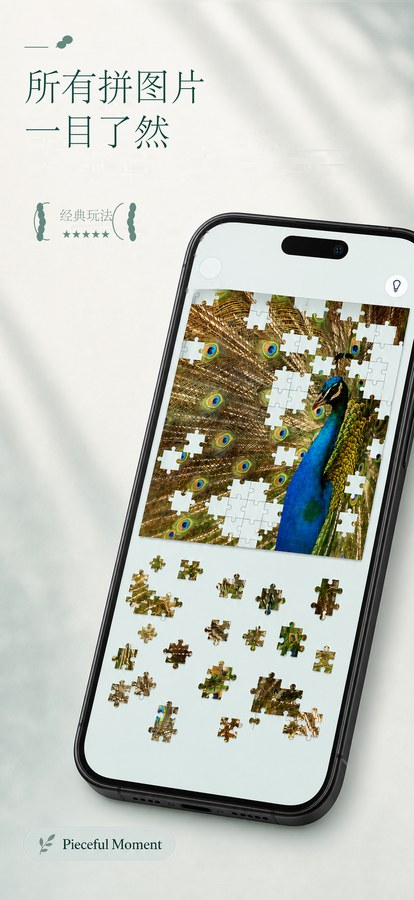
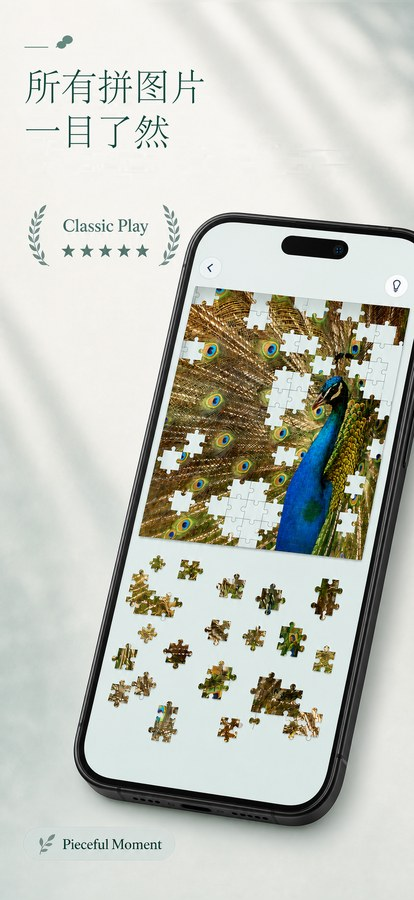
Preserve Classic Play badge in localized images

diff --git a/index.html b/index.html
@@ -119,10 +119,10 @@
   </div>
   <div class="rail reveal d1">
     <div class="spacer"></div>
-    <div class="shot"><img data-localized-shot="01" src="assets/img/shots/v8/en/01.jpg?v=2" alt="Every piece in view"></div>
-    <div class="shot"><img data-localized-shot="02" src="assets/img/shots/v8/en/02.jpg?v=2" alt="Build outside the board"></div>
-    <div class="shot"><img data-localized-shot="03" src="assets/img/shots/v8/en/03.jpg?v=2" alt="Move pieces together"></div>
-    <div class="shot"><img data-localized-shot="04" src="assets/img/shots/v8/en/04.jpg?v=2" alt="A finish worth sharing"></div>
+    <div class="shot"><img data-localized-shot="01" src="assets/img/shots/v8/en/01.jpg?v=3" alt="Every piece in view"></div>
+    <div class="shot"><img data-localized-shot="02" src="assets/img/shots/v8/en/02.jpg?v=3" alt="Build outside the board"></div>
+    <div class="shot"><img data-localized-shot="03" src="assets/img/shots/v8/en/03.jpg?v=3" alt="Move pieces together"></div>
+    <div class="shot"><img data-localized-shot="04" src="assets/img/shots/v8/en/04.jpg?v=3" alt="A finish worth sharing"></div>
     <div class="shot"><img data-localized-shot="05" src="assets/img/shots/v8/en/05.jpg?v=1" alt="A picture for every mood"></div>
     <div class="shot"><img data-localized-shot="06" src="assets/img/shots/v8/en/06.jpg?v=1" alt="Made for little pauses"></div>
     <div class="shot"><img data-localized-shot="07" src="assets/img/shots/v8/en/07.jpg?v=1" alt="Turn your photos into puzzles"></div>
@@ -211,6 +211,6 @@
   </div>
 </footer>
 
-<script src="assets/app.js?v=9"></script>
+<script src="assets/app.js?v=10"></script>
 </body>
 </html>

diff --git a/assets/app.js b/assets/app.js
@@ -93,7 +93,7 @@
       b.classList.toggle("on", b.dataset.lang === lang);
     });
     document.querySelectorAll("[data-localized-shot]").forEach(function (img) {
-      img.src = "assets/img/shots/v8/" + lang + "/" + img.dataset.localizedShot + ".jpg?v=2";
+      img.src = "assets/img/shots/v8/" + lang + "/" + img.dataset.localizedShot + ".jpg?v=3";
     });
     document.querySelectorAll("[data-localized-ipad-shot]").forEach(function (img) {
       img.src = "assets/img/shots/v113-ipad/" + lang + "/" + img.dataset.localizedIpadShot + ".jpg?v=1";

diff --git a/scripts/render_v113_store_assets.py b/scripts/render_v113_store_assets.py
@@ -253,7 +253,7 @@ def treatment_background():
 
 
 TREATMENT_ERASE_BOXES = {
-    1: ((35, 85, 1140, 610), (35, 575, 760, 930)),
+    1: ((35, 85, 1140, 610),),
     2: ((35, 85, 1250, 620), (1030, 1960, 1315, 2215)),
     3: ((35, 85, 1140, 650), (35, 630, 780, 980)),
 }
@@ -417,14 +417,7 @@ def render_localized_treatment_poster(source_path, output, locale, index):
     for line in copy["title"]:
         draw.text((78, y), line, font=title_font, fill=GREEN)
         y += title_size + 28
-    if index == 1:
-        center_x, center_y = 275, 705
-        draw_laurel(draw, center_x, center_y)
-        badge_font = locale_sans(locale, 43 if locale != "ja" else 36)
-        draw.text((center_x, center_y - 22), copy["badge"], font=badge_font, fill=MUTED, anchor="mm")
-        stars = "★★★★★"
-        draw.text((center_x, center_y + 40), stars, font=locale_sans(locale, 31), fill=MUTED, anchor="mm")
-    elif index == 2:
+    if index == 2:
         note_font = locale_sans(locale, 40 if locale != "ja" else 34)
         note = copy["group"]
         if locale == "zh":
@@ -442,7 +435,7 @@ def render_localized_treatment_poster(source_path, output, locale, index):
             align="center",
             spacing=4,
         )
-    else:
+    elif index == 3:
         center_x, center_y = 280, 760
         draw_laurel(draw, center_x, center_y)
         badge_font = locale_sans(locale, 43 if locale != "ja" else 35)

diff --git a/scripts/test_render_v113_store_assets.py b/scripts/test_render_v113_store_assets.py
@@ -141,6 +141,25 @@ class V113StoreAssetTests(unittest.TestCase):
                 self.assertEqual(image.size, (2064, 2752), locale)
 
 class RendererHelperTests(unittest.TestCase):
+    def test_localized_page_one_preserves_original_classic_play_badge(self):
+        renderer = load_renderer()
+        with tempfile.TemporaryDirectory() as tempdir:
+            output = Path(tempdir) / "01.png"
+            renderer.render_localized_treatment_poster(
+                renderer.LOCKED_IPHONE_SOURCES[0],
+                output,
+                "zh",
+                1,
+            )
+            badge_box = (35, 650, 760, 900)
+            with Image.open(renderer.LOCKED_IPHONE_SOURCES[0]) as source:
+                expected = source.convert("RGB").crop(badge_box)
+            with Image.open(output) as localized:
+                actual = localized.convert("RGB").crop(badge_box)
+            self.assertEqual(actual.tobytes(), expected.tobytes())
+            actual.close()
+            expected.close()
+
     def test_dark_copy_removal_preserves_the_surrounding_gradient(self):
         renderer = load_renderer()
         erase = getattr(renderer, "erase_flattened_dark_copy", None)

diff --git a/scripts/test_website_brand.py b/scripts/test_website_brand.py
@@ -33,9 +33,9 @@ class WebsiteBrandTests(unittest.TestCase):
         index = (ROOT / "index.html").read_text()
         app_js = (ROOT / "assets" / "app.js").read_text()
         self.assertIn('data-localized-ipad-shot="06"', index)
-        self.assertIn('assets/app.js?v=9', index)
+        self.assertIn('assets/app.js?v=10', index)
         self.assertIn("assets/img/shots/v113-ipad/", app_js)
-        self.assertIn('.jpg?v=2', app_js)
+        self.assertIn('.jpg?v=3', app_js)
         for locale in ("en", "zh", "zht", "ja"):
             for number in ("01", "02", "03", "04"):
                 self.assertTrue((ROOT / f"assets/img/shots/v8/{locale}/{number}.jpg").is_file())
